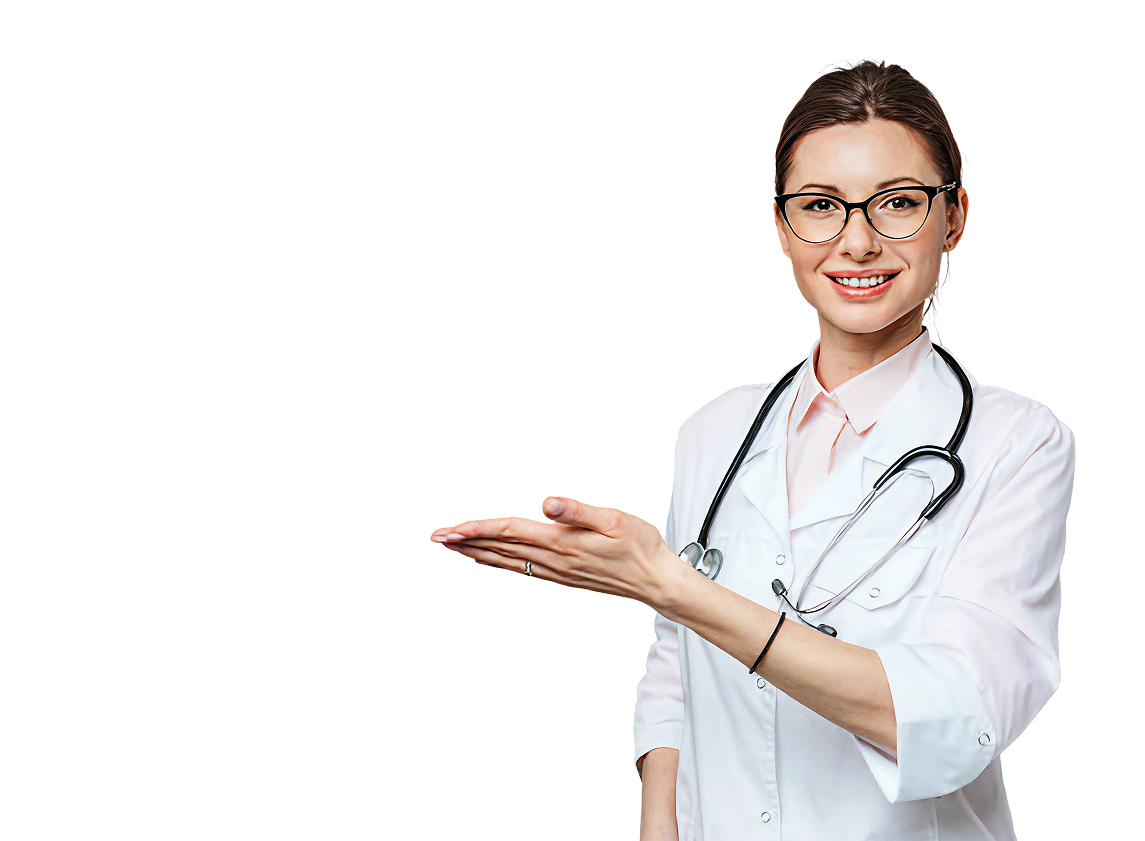
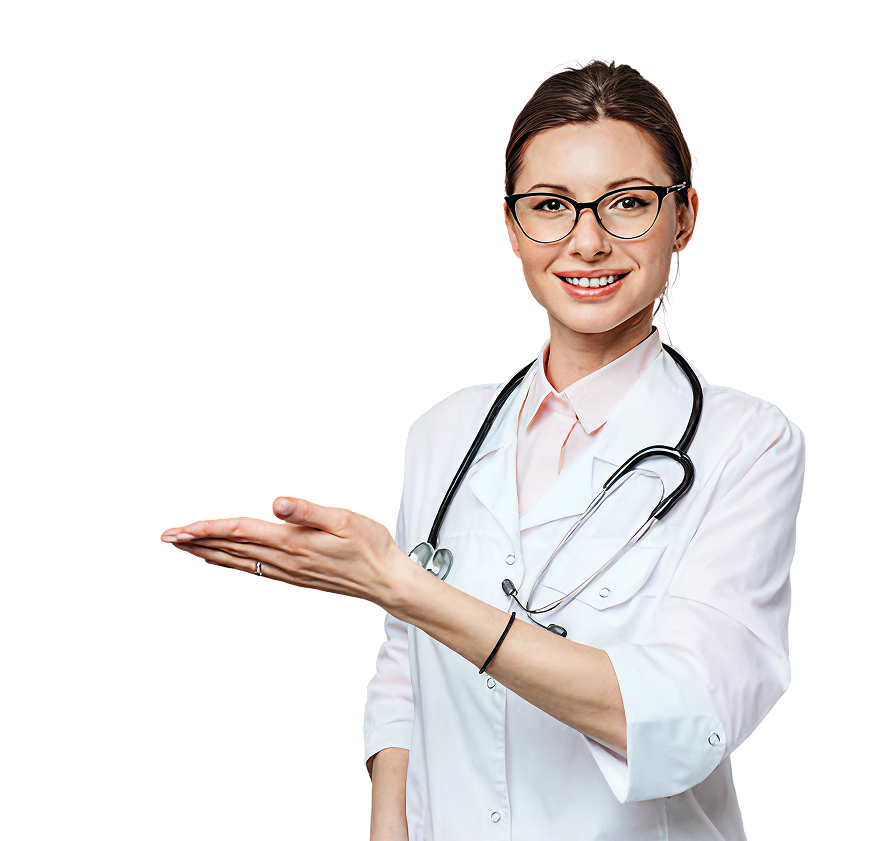
added the sign up page

Changed region(s): [[0.1851, 0.0618, 0.9566, 1.0], [0.8331, 0.742, 0.864, 0.7729]]

diff --git a/src/components/_core/auth/signup-form.tsx b/src/components/_core/auth/signup-form.tsx
@@ -1,0 +1,180 @@
+"use client";
+
+import { useState, type ReactNode } from "react";
+import Link from "next/link";
+import { Eye, EyeOff } from "lucide-react";
+
+import { Button } from "@/components/ui/button";
+import {
+  ctaPrimaryClassName,
+  ctaPrimaryStyle,
+} from "@/components/_core/landing-pages/shared/cta-button-styles";
+import { cn } from "@/lib/utils";
+
+function GoogleIcon() {
+  return (
+    <svg className="size-5" viewBox="0 0 24 24" aria-hidden="true">
+      <path
+        fill="#4285F4"
+        d="M22.56 12.25c0-.78-.07-1.53-.2-2.25H12v4.26h5.92c-.26 1.37-1.04 2.53-2.21 3.31v2.77h3.57c2.08-1.92 3.28-4.74 3.28-8.09z"
+      />
+      <path
+        fill="#34A853"
+        d="M12 23c2.97 0 5.46-.98 7.28-2.66l-3.57-2.77c-.98.66-2.23 1.06-3.71 1.06-2.86 0-5.29-1.93-6.16-4.53H2.18v2.84C3.99 20.53 7.7 23 12 23z"
+      />
+      <path
+        fill="#FBBC05"
+        d="M5.84 14.09c-.22-.66-.35-1.36-.35-2.09s.13-1.43.35-2.09V7.07H2.18C1.43 8.55 1 10.22 1 12s.43 3.45 1.18 4.93l2.85-2.22.81-.62z"
+      />
+      <path
+        fill="#EA4335"
+        d="M12 5.38c1.62 0 3.06.56 4.21 1.64l3.15-3.15C17.45 2.09 14.97 1 12 1 7.7 1 3.99 3.47 2.18 7.07l3.66 2.84c.87-2.6 3.3-4.53 6.16-4.53z"
+      />
+    </svg>
+  );
+}
+
+function FloatingField({
+  id,
+  label,
+  type = "text",
+  placeholder,
+  autoComplete,
+  trailing,
+}: {
+  id: string;
+  label: string;
+  type?: string;
+  placeholder: string;
+  autoComplete?: string;
+  trailing?: ReactNode;
+}) {
+  return (
+    <div className="relative">
+      <label
+        htmlFor={id}
+        className="absolute -top-2.5 left-3 z-10 bg-white px-1.5 text-xs font-medium text-healiu-dark"
+      >
+        {label}
+      </label>
+      <input
+        id={id}
+        name={id}
+        type={type}
+        placeholder={placeholder}
+        autoComplete={autoComplete}
+        className={cn(
+          "h-12 w-full rounded-xl border border-border bg-white px-4 text-sm text-healiu-dark-dark outline-none transition-colors placeholder:text-healiu-dark-lighter",
+          "focus:border-healiu-blue",
+          trailing && "pr-11",
+        )}
+      />
+      {trailing}
+    </div>
+  );
+}
+
+export function SignupForm() {
+  const [showPassword, setShowPassword] = useState(false);
+  const [agreed, setAgreed] = useState(false);
+
+  return (
+    <div className="w-full rounded-3xl bg-white p-6 shadow-[0_12px_40px_rgba(11,105,201,0.1)] sm:p-8">
+      <h1 className="text-3xl font-bold tracking-tight text-healiu-dark-dark">
+        Sign up
+      </h1>
+      <p className="mt-2 text-sm text-healiu-dark">
+        Sign up to enjoy the features of Khoren
+      </p>
+
+      <Button
+        type="button"
+        variant="outline"
+        className="mt-6 h-11 w-full gap-2 rounded-xl border-border bg-white text-healiu-dark-dark hover:bg-healiu-neutral-light"
+      >
+        <GoogleIcon />
+        Continue with Google
+      </Button>
+
+      <div className="relative my-6">
+        <div className="absolute inset-0 flex items-center">
+          <span className="w-full border-t border-border" />
+        </div>
+        <div className="relative flex justify-center text-xs">
+          <span className="bg-white px-3 text-healiu-dark">or</span>
+        </div>
+      </div>
+
+      <form
+        className="space-y-5"
+        onSubmit={(event) => {
+          event.preventDefault();
+        }}
+      >
+        <FloatingField
+          id="name"
+          label="Your Name"
+          placeholder="John Markton"
+          autoComplete="name"
+        />
+        <FloatingField
+          id="email"
+          label="Email"
+          type="email"
+          placeholder="Youremail@mail.com"
+          autoComplete="email"
+        />
+        <FloatingField
+          id="password"
+          label="Password"
+          type={showPassword ? "text" : "password"}
+          placeholder="••••••••••••"
+          autoComplete="new-password"
+          trailing={
+            <button
+              type="button"
+              aria-label={showPassword ? "Hide password" : "Show password"}
+              onClick={() => setShowPassword((value) => !value)}
+              className="absolute top-1/2 right-3 -translate-y-1/2 text-healiu-dark hover:text-healiu-dark-dark"
+            >
+              {showPassword ? (
+                <EyeOff className="size-4" />
+              ) : (
+                <Eye className="size-4" />
+              )}
+            </button>
+          }
+        />
+
+        <label className="flex items-center gap-2.5 text-sm text-healiu-dark">
+          <input
+            type="checkbox"
+            checked={agreed}
+            onChange={(event) => setAgreed(event.target.checked)}
+            className="size-4 rounded border-border accent-healiu-blue"
+          />
+          I Agree the terms and conditions
+        </label>
+
+        <Button
+          type="submit"
+          className={cn(ctaPrimaryClassName, "h-11 w-full rounded-xl")}
+          style={ctaPrimaryStyle}
+          disabled={!agreed}
+        >
+          Sign up
+        </Button>
+      </form>
+
+      <p className="mt-5 text-center text-sm text-healiu-dark">
+        Already have an account?{" "}
+        <Link
+          href="/auth/login"
+          className="font-semibold text-healiu-dark-dark hover:text-healiu-blue"
+        >
+          Sign in
+        </Link>
+      </p>
+    </div>
+  );
+}

diff --git a/src/components/_core/auth/auth-header.tsx b/src/components/_core/auth/auth-header.tsx
@@ -1,0 +1,30 @@
+import Image from "next/image";
+import Link from "next/link";
+
+import { Button } from "@/components/ui/button";
+import {
+  ctaPrimaryClassName,
+  ctaPrimaryStyle,
+} from "@/components/_core/landing-pages/shared/cta-button-styles";
+
+export function AuthHeader() {
+  return (
+    <header className="fixed inset-x-0 top-0 z-50">
+      <div className="app-width flex h-20 items-center justify-between sm:h-24">
+        <Link href="/" className="shrink-0">
+          <Image
+            src="/images/svgs/khoren-logo.svg"
+            alt="Khoren"
+            width={135}
+            height={48}
+            className="h-10 w-auto sm:h-12"
+            priority
+          />
+        </Link>
+        <Button className={ctaPrimaryClassName} style={ctaPrimaryStyle}>
+          Buy a service
+        </Button>
+      </div>
+    </header>
+  );
+}

diff --git a/src/app/auth/sign-up/page.tsx b/src/app/auth/sign-up/page.tsx
@@ -1,0 +1,24 @@
+import Image from "next/image";
+
+import { SignupForm } from "@/components/_core/auth/signup-form";
+
+export default function SignupPage() {
+  return (
+    <main className="app-width grid h-screen items-center gap-10 pt-20 sm:pt-24 lg:grid-cols-2 lg:gap-12">
+      <div className="w-full">
+        <SignupForm />
+      </div>
+
+      <div className="relative hidden h-full min-h-0 w-full lg:block">
+        <Image
+          src="/images/pngs/auth-bg.png"
+          alt="Healthcare professional welcoming you to Khoren"
+          fill
+          priority
+          className="object-contain object-bottom"
+          sizes="(max-width: 1024px) 0vw, 50vw"
+        />
+      </div>
+    </main>
+  );
+}

diff --git a/src/app/auth/layout.tsx b/src/app/auth/layout.tsx
@@ -1,0 +1,20 @@
+import { AuthHeader } from "@/components/_core/auth/auth-header";
+
+export default function AuthLayout({
+  children,
+}: {
+  children: React.ReactNode;
+}) {
+  return (
+    <div
+      className="min-h-screen"
+      style={{
+        background:
+          "radial-gradient(84.07% 84.07% at 67.84% 15.93%, #FFFFFF 0%, #E4EFFF 100%)",
+      }}
+    >
+      <AuthHeader />
+      {children}
+    </div>
+  );
+}

diff --git a/src/components/_core/landing-pages/shared/navbar.tsx b/src/components/_core/landing-pages/shared/navbar.tsx
@@ -25,7 +25,7 @@ const navLinks = [
   { label: "Our Services", href: "/#services", hasDropdown: false },
   { label: "Find a Care Provider", href: "/provider", hasDropdown: false },
   { label: "Contact", href: "#contact", hasDropdown: false },
-  { label: "Log in", href: "#login", hasDropdown: false },
+  { label: "Log in", href: "/auth/login", hasDropdown: false },
 ];
 
 export function Navbar() {

diff --git a/src/app/auth/login/page.tsx b/src/app/auth/login/page.tsx
@@ -1,0 +1,12 @@
+import Link from "next/link";
+
+export default function LoginPage() {
+  return (
+    <div className="flex min-h-dvh flex-col items-center justify-center gap-4 px-6">
+      <p className="text-healiu-dark">Sign in page coming next.</p>
+      <Link href="/auth/sign-up" className="font-semibold text-healiu-blue">
+        Go to Sign up
+      </Link>
+    </div>
+  );
+}
